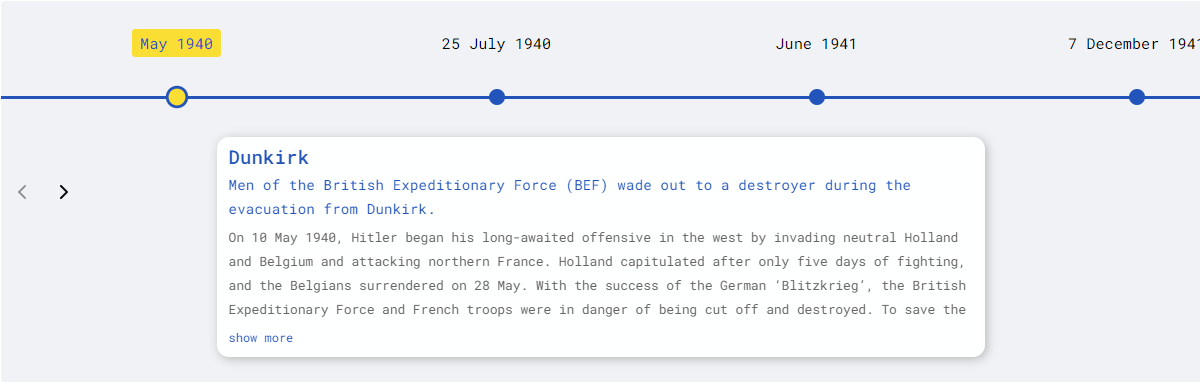
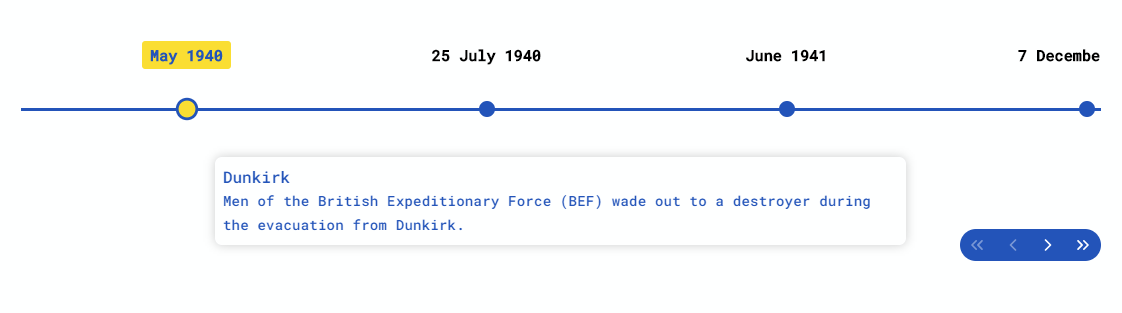
update readme

diff --git a/src/demo/App.tsx b/src/demo/App.tsx
@@ -1,6 +1,7 @@
-import React, { useEffect, useState, useCallback } from "react";
+import React, { useCallback, useEffect, useState } from "react";
 import { hot } from "react-hot-loader/root";
 import fontLoader from "webfontloader";
+import AppLogo from "../assets/logo.png";
 import { TimelineItemModel } from "../models/TimelineItemModel";
 import { Chrono } from "../react-chrono";
 import "./App.css";
@@ -21,14 +22,11 @@ import {
 } from "./App.styles";
 import data from "./data";
 import Features from "./Features";
-import AppLogo from "../assets/logo.png";
 import useMediaQuery from "./mediaQueryEffect";
 
 const NewDemo: React.FunctionComponent = () => {
   const [state, setState] = useState({ fontsLoaded: false, mediaType: "" });
-
   const type = useMediaQuery();
-
   const [items, setItems] = useState<TimelineItemModel[]>();
 
   const setFont = useCallback(() => {
@@ -43,18 +41,20 @@ const NewDemo: React.FunctionComponent = () => {
         });
       },
     });
-  },[type])
+  }, [type]);
 
   useEffect(() => {
     setFont();
   }, [setFont]);
 
   useEffect(() => {
-    const newItems = data.map(({ title, contentTitle, contentText, media }) => ({
-      title,
-      contentTitle,
-      contentText,
-    }));
+    const newItems = data.map(
+      ({ title, contentTitle, contentText, media }) => ({
+        title,
+        contentTitle,
+        contentText,
+      })
+    );
     setItems(newItems);
   }, []);
 
@@ -100,9 +100,7 @@ const NewDemo: React.FunctionComponent = () => {
         <Horizontal>
           <Description>
             <span>
-              <DescriptionHeader>
-                # Horizontal
-              </DescriptionHeader>
+              <DescriptionHeader># Horizontal</DescriptionHeader>
             </span>
             <DescriptionContent>
               Timelines are rendered horizontally by default. The positioning of
@@ -110,15 +108,13 @@ const NewDemo: React.FunctionComponent = () => {
             </DescriptionContent>
           </Description>
           <ComponentContainer type={state.mediaType}>
-            <Chrono items={data} mode="HORIZONTAL" />
+            <Chrono items={data} mode="HORIZONTAL" slideShow/>
           </ComponentContainer>
         </Horizontal>
         <Vertical>
           <Description>
             <span>
-              <DescriptionHeader>
-                # Vertical
-              </DescriptionHeader>
+              <DescriptionHeader># Vertical</DescriptionHeader>
             </span>
             <DescriptionContent>
               Use the <strong>VERTICAL</strong> mode to render the timelines
@@ -132,9 +128,7 @@ const NewDemo: React.FunctionComponent = () => {
         <Vertical id="tree-mode">
           <Description>
             <span>
-              <DescriptionHeader>
-                # Tree
-              </DescriptionHeader>
+              <DescriptionHeader># Tree</DescriptionHeader>
             </span>
             <DescriptionContent>
               In <strong>TREE</strong> mode, the component will be rendered
@@ -148,9 +142,7 @@ const NewDemo: React.FunctionComponent = () => {
         <Horizontal id="slideshow">
           <Description>
             <span>
-              <DescriptionHeader>
-                # Slideshow
-              </DescriptionHeader>
+              <DescriptionHeader># Slideshow</DescriptionHeader>
             </span>
             <DescriptionContent>
               In slideshow mode, the component autoplays the timeline for you.
@@ -170,21 +162,14 @@ const NewDemo: React.FunctionComponent = () => {
         <Vertical>
           <Description>
             <span>
-              <DescriptionHeader>
-                # Slideshow with Tree
-              </DescriptionHeader>
+              <DescriptionHeader># Slideshow with Tree</DescriptionHeader>
             </span>
             <DescriptionContent>
               SlideShow is also supported for all 3 modes.
             </DescriptionContent>
           </Description>
           <ComponentContainerTree type={state.mediaType}>
-            <Chrono
-              items={data}
-              mode="TREE"
-              slideShow
-              slideItemDuration={3500}
-            />
+            <Chrono items={data} mode="TREE" slideItemDuration={1500} slideShow />
           </ComponentContainerTree>
         </Vertical>
         <Footer>

diff --git a/src/demo/data.ts b/src/demo/data.ts
@@ -51,7 +51,7 @@ const items: TimelineItemModel[] = [
     contentText: `The destroyer USS Shaw explodes in dry dock after being hit by Japanese aircraft`,
     media: {
       source: {
-        url: "https://cdn.britannica.com/s:800x1000/96/192896-050-665CC9A3/Explosion-USS-Shaw-magazine-attack-Pearl-Harbor-Dec-7-1941.jpg",
+        url: "https://pearlharborwarbirds.com/wp-content/uploads/2016/09/Awesome-Color-Photos-of-the-Attack-on-Pearl-Harbor-1.jpg",
       },
       type: "IMAGE",
       name: "Pearl Harbor"
@@ -81,7 +81,7 @@ const items: TimelineItemModel[] = [
     media: {
       type: "IMAGE",
       source: {
-        url: "https://www.nationalww2museum.org/sites/default/files/styles/wide_medium/public/2017-06/battle_of_midway-002.jpg"
+        url: "https://dlbztvn8kichw.cloudfront.net/wp-content/uploads/2018/10/03131301/The-Battle-Of-Midway.jpg"
       }
     },
     contentText: `The American aircraft carrier USS Yorktown under Japanese attack during the battle of Midway`,
@@ -96,7 +96,7 @@ const items: TimelineItemModel[] = [
     media: {
       type: "IMAGE",
       source: {
-        url: "https://qphs.fs.quoracdn.net/main-qimg-b131ffa5825d451de2446a1df94ff401"
+        url: "https://i.dailymail.co.uk/i/newpix/2018/03/08/11/49FEAE2A00000578-5477117-image-a-79_1520509429888.jpg"
       }
     },
     contentDetailedText: `The North African campaign began in September1940, and for the next two years the fighting was marked by a succession of Allied and Axis advances and retreats. In the summer of 1942, the Axis forces under ‘Desert Fox’ field marshal, Erwin Rommel, looked poised to take Cairo and advance on the Suez Canal.
@@ -155,7 +155,7 @@ const items: TimelineItemModel[] = [
     media: {
       type: "IMAGE",
       source: {
-        url: "https://upload.wikimedia.org/wikipedia/commons/1/17/Bundesarchiv_Bild_146-1994-041-07%2C_Dresden%2C_zerst%C3%B6rtes_Stadtzentrum.jpg"
+        url: "https://i.pinimg.com/originals/7f/13/57/7f1357ae886a0cfd317c2abbc232e637.jpg"
       }
     },
     contentDetailedText: `At Yalta, an Allied plan to bomb the hitherto untouched city of Dresden was discussed. The reason for attacking the city was due principally to its strategic importance as a communications centre in the rear of the German retreat that followed the Soviet winter offensive of January 1945. It was also believed that Dresden might be used as an alternative to Berlin as the Reich capital.

diff --git a/src/components/timeline-elements/timeline-control/timeline-control.tsx b/src/components/timeline-elements/timeline-control/timeline-control.tsx
@@ -21,22 +21,30 @@ const TimelineControl: React.FunctionComponent<TimelineControlModel> = ({
   return (
     <TimelineControlWrapper>
       <TimelineControlItem disable={disableLeft}>
-        <TimelineControlButton onClick={onFirst}>
+        <TimelineControlButton
+          onClick={onFirst}
+          title="first"
+          aria-label="first"
+        >
           <ChevronsLeftIcon />
         </TimelineControlButton>
       </TimelineControlItem>
       <TimelineControlItem disable={disableLeft}>
-        <TimelineControlButton onClick={onPrevious}>
+        <TimelineControlButton
+          onClick={onPrevious}
+          title="previous"
+          aria-label="previous"
+        >
           <ChevronLeft />
         </TimelineControlButton>
       </TimelineControlItem>
       <TimelineControlItem disable={disableRight}>
-        <TimelineControlButton onClick={onNext}>
+        <TimelineControlButton onClick={onNext} title="next" aria-label="next">
           <ChevronRightIcon />
         </TimelineControlButton>
       </TimelineControlItem>
       <TimelineControlItem disable={disableRight}>
-        <TimelineControlButton onClick={onLast}>
+        <TimelineControlButton onClick={onLast} title="last" aria-label="last">
           <ChevronsRightIcon />
         </TimelineControlButton>
       </TimelineControlItem>

diff --git a/src/components/timeline-elements/timeline-item-content/timeline-item-content.styles.ts b/src/components/timeline-elements/timeline-item-content/timeline-item-content.styles.ts
@@ -99,7 +99,10 @@ export const ShowMore = styled.span<{ show?: boolean }>`
 `;
 
 export const MediaWrapper = styled.div<{ theme: Theme, active?: boolean, mode?: TimelineMode }>`
-  height: ${p => p.mode === "HORIZONTAL" ? "350px" : "300px"};
+  /* height: ${p => p.mode === "HORIZONTAL" ? "350px" : "300px"}; */
+  /* height: 100%; */
+  min-height: 250px;
+  max-height: 450px;
   flex-direction: row;
   align-items: center;
   justify-content: center;
@@ -112,12 +115,10 @@ export const MediaWrapper = styled.div<{ theme: Theme, active?: boolean, mode?: 
 `;
 
 export const Media = styled.img<{ mode?: TimelineMode, visible?: boolean, active?: boolean }>`
-  object-fit: ${p => p.mode === "TREE" ? "contain" : "contain"};
-  object-fit: "contain";
-  width: 100%;
+  max-width: 100%;
   justify-self: center;
   flex: 4;
-  height: 100%;
+  max-height: 100%;
   visibility: ${p => p.visible ? "visible" : "hidden"};
   border: ${p => p.active ? `1px solid ${p.theme.primary}` : ""};
 `;
@@ -141,7 +142,7 @@ export const MediaDetailsWrapper = styled.div<{ mode?: TimelineMode }>`
   flex-direction: column;
   flex: 1;
   border-radius: 6px;
-  background: rgba(255,255,255, 0.8);
+  background: rgba(255,255,255, 0.9);
   /* background: rgba(0,0,0,0.7); */
   filter: drop-shadow(0 0 20px rgba(0,0,0,0.5));
   padding-bottom: 0.5rem;

diff --git a/src/components/timeline/timeline.tsx b/src/components/timeline/timeline.tsx
@@ -36,21 +36,13 @@ const Timeline: React.FunctionComponent<TimelineModel> = ({
   const timelineMainRef = useRef<HTMLDivElement>(null);
   const id = useRef(nanoid());
 
-  const handleNext = () => {
-    onNext();
-  };
+  const handleNext = () => onNext();
 
-  const handlePrevious = () => {
-    onPrevious();
-  };
+  const handlePrevious = () => onPrevious();
 
-  const handleFirst = () => {
-    onFirst();
-  };
+  const handleFirst = () => onFirst();
 
-  const handleLast = () => {
-    onLast();
-  };
+  const handleLast = () => onLast();
 
   const handleKeySelection = (event: React.KeyboardEvent<HTMLDivElement>) => {
     event.preventDefault();

diff --git a/src/demo/App.styles.ts b/src/demo/App.styles.ts
@@ -7,7 +7,7 @@ const ModeWrapper = styled.div`
   /* border: 1px solid #e5e5e5; */
   margin-top: 2rem;
   border-radius: 10px;
-  /* padding: 1.5rem 0; */
+  padding: 1.5rem 0;
   background: #fff;
 `;
 

diff --git a/README.md b/README.md
@@ -1,9 +1,9 @@
 [![Build Status](https://dev.azure.com/prabhummurthy/react-chrono/_apis/build/status/prabhuignoto.react-chrono?branchName=master)](https://dev.azure.com/prabhummurthy/react-chrono/_build/latest?definitionId=7&branchName=master)
 [![DeepScan grade](https://deepscan.io/api/teams/10074/projects/13644/branches/234929/badge/grade.svg)](https://deepscan.io/dashboard#view=project&tid=10074&pid=13644&bid=234929)
 [![Codacy Badge](https://app.codacy.com/project/badge/Grade/f2e24a98defd4e4fa7f6f24d86b8dab5)](https://www.codacy.com/manual/prabhuignoto/react-chrono?utm_source=github.com&amp;utm_medium=referral&amp;utm_content=prabhuignoto/react-chrono&amp;utm_campaign=Badge_Grade)
-[![Language grade: JavaScript](https://img.shields.io/lgtm/grade/javascript/g/prabhuignoto/float-menu.svg?logo=lgtm&logoWidth=18)](https://lgtm.com/projects/g/prabhuignoto/float-menu/context:javascript)
 ![Snyk Vulnerabilities for GitHub Repo](https://img.shields.io/snyk/vulnerabilities/github/prabhuignoto/react-chrono?style=flat)
 [![Depfu](https://badges.depfu.com/badges/48a23a6a830309649b7e516467cd9a48/overview.svg)](https://depfu.com/github/prabhuignoto/react-chrono?project_id=15325)
+![https://badgen.net/bundlephobia/min/react](https://badgen.net/bundlephobia/min/react)
 
 ![logo](./readme-assets/social-logo-small.png)
 
@@ -62,8 +62,7 @@ Here is an example Timeline with minimal settings.
   const items = [{
     title: "May 1940",
     contentTitle: "Dunkirk",
-    contentText:"Men of the British Expeditionary Force (BEF) wade out to a destroyer during the evacuation from Dunkirk.",
-    contentDetailedText: "On 10 May 1940, Hitler began his long-awaited offensive in the west...",
+    contentText:"Men of the British Expeditionary Force (BEF) wade out to.."
   }, ...];
 
   <div style={{ width: "500px", height: "400px" }}>
